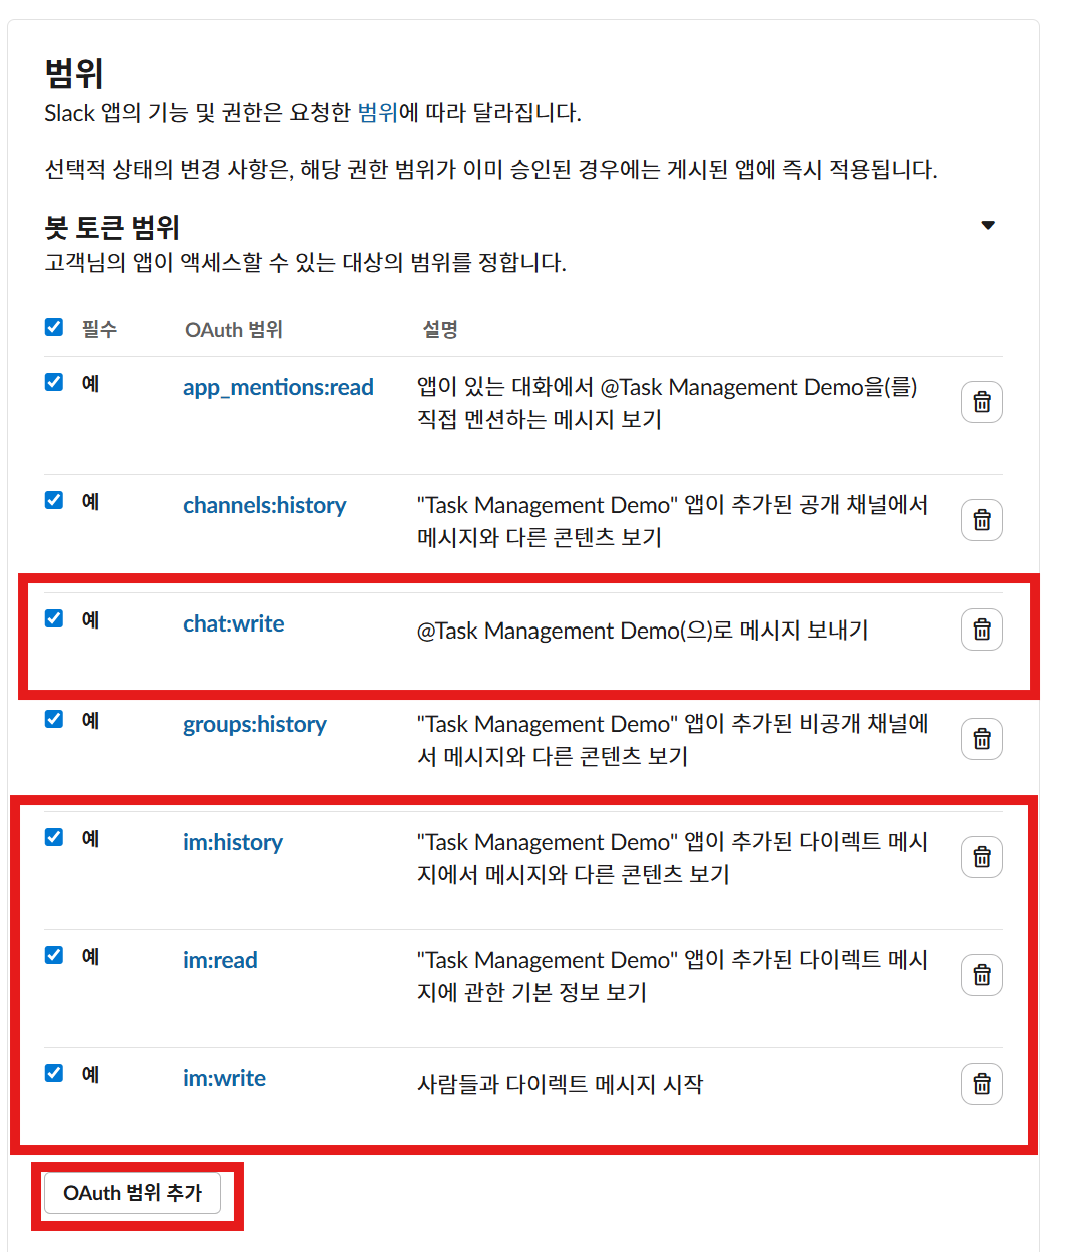
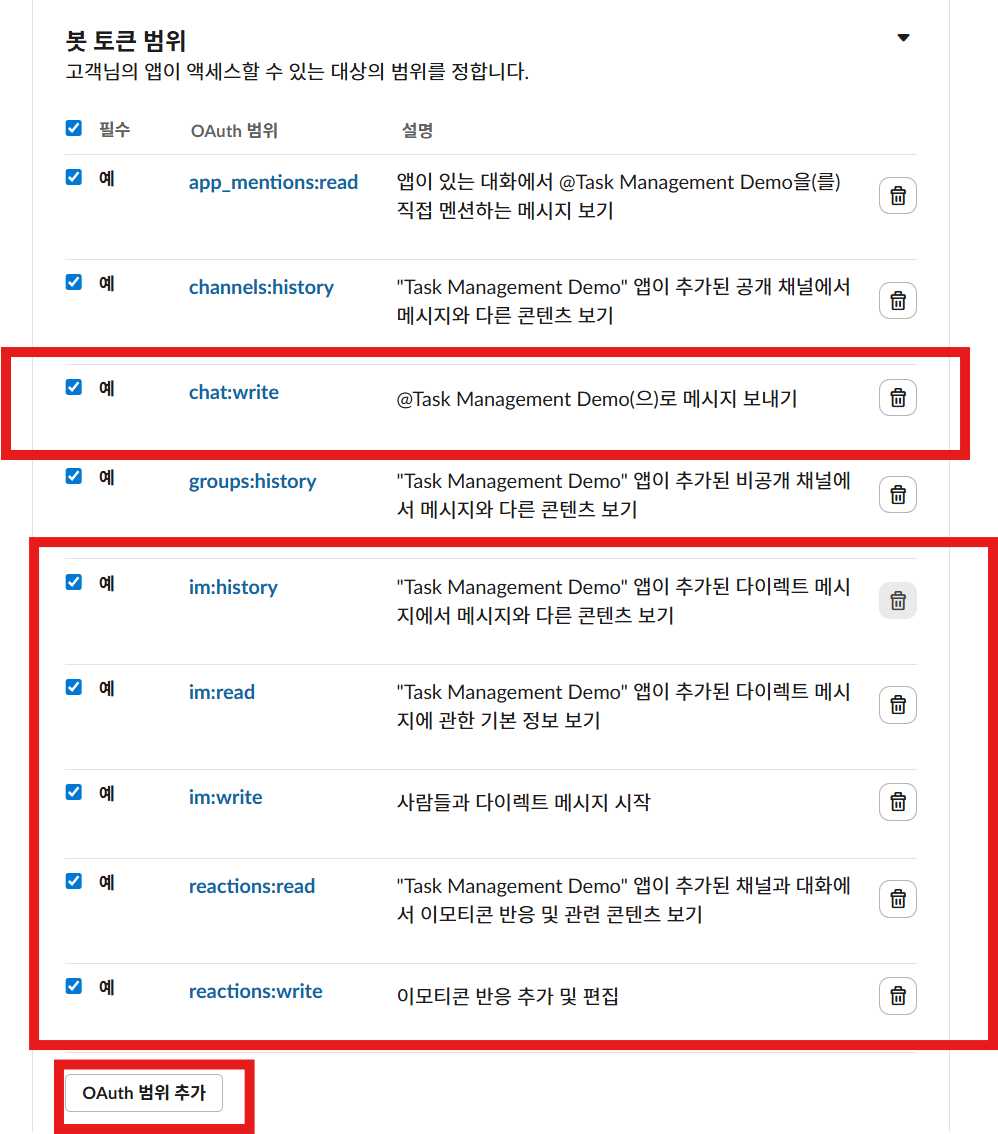
Add read/done emoji reactions on Slack messages and require reactions:write
Constraint: Operators wanted to see at a glance whether the bot read and finished a Slack message, but neither the reaction behavior nor the reactions:write scope existed in the repo.
Confidence: high
Scope-risk: low
Directive: slack-socket-loop adds eyes on receipt and white_check_mark on completion (best-effort); reactions:write is now a required bot scope, reflected across setup docs, the HTML guide, and the OAuth screenshot.
Tested: python -X utf8 -m pytest -q (244 passed); new test_socket_handle_marks_eyes_then_check_reactions.
Not-tested: live reactions.add round-trip (corporate network intermittently blocks the socket-mode WSS connect).

Changed region(s): [[0.0, 0.0309, 1.0, 1.0], [0.1553, 0.7407, 0.3106, 0.8025], [0.8697, 0.1543, 0.9319, 0.1852]]

diff --git a/docs/slack-app-setup-guide.html b/docs/slack-app-setup-guide.html
@@ -470,9 +470,10 @@
           <tr><td><code>chat:write</code></td><td>DM·확인·브리핑 메시지를 보냅니다.</td></tr>
           <tr><td><code>im:history</code></td><td>app DM의 <code>message.im</code> 이벤트와 DM history를 읽습니다.</td></tr>
           <tr><td><code>im:write</code></td><td>사용자와 app 사이 DM channel을 엽니다.</td></tr>
+          <tr><td><code>reactions:write</code></td><td>받은 메시지에 읽음(👀)·완료(✅) 리액션을 답니다.</td></tr>
         </tbody>
       </table>
-      <div class="callout callout-tip"><div class="callout-title">✅ clean repo 기준</div>이 3개는 코드의 <code class="inline-code">SLACK_PERSONAL_DM_BOT_SCOPES</code>로 고정돼 있고, <code class="inline-code">slack-doctor</code>가 <code class="inline-code">required_bot_scopes</code>로 자동 검증합니다. DM 데모는 더도 덜도 없이 이 3개면 충분합니다.</div>
+      <div class="callout callout-tip"><div class="callout-title">✅ clean repo 기준</div>이 4개는 코드의 <code class="inline-code">SLACK_PERSONAL_DM_BOT_SCOPES</code>로 고정돼 있고, <code class="inline-code">slack-doctor</code>가 <code class="inline-code">required_bot_scopes</code>로 자동 검증합니다. (<code class="inline-code">reactions:write</code>는 받은 메시지에 읽음·완료 리액션을 달기 위해 필요합니다.)</div>
       <div class="callout callout-warn"><div class="callout-title">⚠ User Token Scopes는 비워두기</div>같은 페이지의 <strong>User Token Scopes</strong> 섹션은 <strong>추가하지 않습니다</strong>. 이 어댑터는 bot token(<code class="inline-code">xoxb-</code>)만 사용하며, user token(<code class="inline-code">xoxp-</code>)을 넣으면 <code class="inline-code">slack-doctor</code>가 <em>"must be a bot token"</em>으로 거부합니다. <code class="inline-code">SLACK_USER_ID</code>는 토큰이 아니라 DM 상대(사람)를 식별하는 ID입니다.</div>
       <img class="screenshot" src="screenshots/slack-app-settings/03-oauth-required-scopes.png" alt="OAuth 필수 Scope 화면" onerror="this.style.display='none'; this.nextElementSibling.style.display='flex';">
       <div class="screenshot-placeholder" style="display:none;">
@@ -640,7 +641,7 @@ TASK_MANAGEMENT_ALLOWED_INSTANCE_ID=clean-demo</pre>
       <li>App-Level Token이 있고 <code class="inline-code">connections:write</code> scope를 가진다.</li>
       <li><code class="inline-code">SLACK_APP_TOKEN</code>이 <code class="inline-code">xapp-</code>로 시작한다.</li>
       <li>Socket Mode가 enabled 상태다.</li>
-      <li>Bot Token Scopes에 <code class="inline-code">chat:write</code>, <code class="inline-code">im:history</code>, <code class="inline-code">im:write</code>가 있다.</li>
+      <li>Bot Token Scopes에 <code class="inline-code">chat:write</code>, <code class="inline-code">im:history</code>, <code class="inline-code">im:write</code>, <code class="inline-code">reactions:write</code>가 있다.</li>
       <li>Event Subscriptions에 <code class="inline-code">message.im</code>이 있다. (Home tab이면 <code class="inline-code">app_home_opened</code>도)</li>
       <li>App Home에서 Messages tab이 켜져 있다.</li>
       <li>app을 install/reinstall 했다.</li>

diff --git a/task_management/slack_adapter.py b/task_management/slack_adapter.py
@@ -17,7 +17,7 @@ class SlackAdapterError(RuntimeError):
     """Raised for local Slack adapter configuration/API failures."""
 
 
-SLACK_PERSONAL_DM_BOT_SCOPES = ("chat:write", "im:history", "im:write")
+SLACK_PERSONAL_DM_BOT_SCOPES = ("chat:write", "im:history", "im:write", "reactions:write")
 
 
 @dataclass(frozen=True)
@@ -84,7 +84,7 @@ def diagnose_slack_live_config(config: SlackDmConfig) -> SlackLiveConfigCheck:
     warnings: list[str] = []
     setup_steps = [
         "Create/install a Slack app with a bot user.",
-        "Grant bot scopes: chat:write, im:history, im:write.",
+        "Grant bot scopes: chat:write, im:history, im:write, reactions:write.",
         "Set SLACK_BOT_TOKEN to the installed xoxb- bot token.",
         "Set SLACK_DM_CHANNEL_ID to a D... personal DM id, or set SLACK_USER_ID so conversations.open can resolve one.",
         "Set SLACK_USER_ID and enable App Home if you want the Home tab to show the task page summary.",
@@ -163,6 +163,12 @@ class SlackWebClient(Protocol):
     def publish_home_view(self, user_id: str, view: Mapping[str, Any]) -> str:
         """Publish a Slack App Home view for one user and return the view id/hash."""
 
+    def add_reaction(self, channel_id: str, ts: str, name: str) -> None:
+        """Add an emoji reaction to a message by conversation id + ts."""
+
+    def remove_reaction(self, channel_id: str, ts: str, name: str) -> None:
+        """Remove an emoji reaction from a message by conversation id + ts."""
+
 
 class SlackHttpClient:
     """Tiny stdlib Slack Web API client kept behind the adapter boundary."""
@@ -208,6 +214,24 @@ class SlackHttpClient:
             return str(published.get("id") or published.get("hash") or "")
         return ""
 
+    def add_reaction(self, channel_id: str, ts: str, name: str) -> None:
+        payload = self._post_json_unchecked(
+            "https://slack.com/api/reactions.add",
+            {"channel": channel_id, "timestamp": ts, "name": name},
+        )
+        if payload.get("ok") or payload.get("error") == "already_reacted":
+            return
+        raise SlackAdapterError(str(payload.get("error") or payload))
+
+    def remove_reaction(self, channel_id: str, ts: str, name: str) -> None:
+        payload = self._post_json_unchecked(
+            "https://slack.com/api/reactions.remove",
+            {"channel": channel_id, "timestamp": ts, "name": name},
+        )
+        if payload.get("ok") or payload.get("error") in {"no_reaction", "message_not_found"}:
+            return
+        raise SlackAdapterError(str(payload.get("error") or payload))
+
     def _get_json(self, url: str) -> dict[str, Any]:
         req = urlrequest.Request(url, headers={"Authorization": f"Bearer {self.token}"})
         with urlrequest.urlopen(req, timeout=20) as response:  # nosec - explicit live CLI path only
@@ -243,6 +267,8 @@ class FakeSlackWebClient:
     sent: list[tuple[str, str, str]] = field(default_factory=list)
     deleted: list[tuple[str, str]] = field(default_factory=list)
     home_views: list[tuple[str, Mapping[str, Any], str]] = field(default_factory=list)
+    reactions_added: list[tuple[str, str, str]] = field(default_factory=list)
+    reactions_removed: list[tuple[str, str, str]] = field(default_factory=list)
 
     def open_dm(self, user_id: str) -> str:
         return self.channel_id
@@ -265,6 +291,12 @@ class FakeSlackWebClient:
         view_id = f"VHOME{len(self.home_views) + 1:06d}"
         self.home_views.append((user_id, view, view_id))
         return view_id
+
+    def add_reaction(self, channel_id: str, ts: str, name: str) -> None:
+        self.reactions_added.append((channel_id, ts, name))
+
+    def remove_reaction(self, channel_id: str, ts: str, name: str) -> None:
+        self.reactions_removed.append((channel_id, ts, name))
 
 
 class SlackDmAdapter:
@@ -327,6 +359,12 @@ class SlackDmAdapter:
                 f"Slack App Home publish is restricted to configured user {self.config.user_id!r}; got {user_id!r}."
             )
         return self.client.publish_home_view(user_id, view)
+
+    def add_reaction(self, channel_id: str, ts: str, name: str) -> None:
+        self.client.add_reaction(channel_id, ts, name)
+
+    def remove_reaction(self, channel_id: str, ts: str, name: str) -> None:
+        self.client.remove_reaction(channel_id, ts, name)
 
 
 def slack_message_to_incoming(

diff --git a/task_management/slack_socket.py b/task_management/slack_socket.py
@@ -81,7 +81,7 @@ def diagnose_slack_socket_config(config: SlackSocketConfig) -> SlackSocketConfig
         "Generate an app-level token with connections:write and set SLACK_APP_TOKEN.",
         "Enable Event Subscriptions and subscribe the bot to message.im and app_home_opened.",
         "Optional allowlisted notification triage: subscribe to app_mention or message.channels/message.groups/message.im as needed, invite the bot to watched channels, and set TASK_MANAGEMENT_SLACK_WATCH_CHANNEL_IDS.",
-        "Keep the personal DM bot scopes available: chat:write, im:history, im:write.",
+        "Keep the personal DM bot scopes available: chat:write, im:history, im:write, reactions:write.",
         "Enable App Home > Home Tab if the Slack Home tab should show task summaries.",
         "Run slack-socket-loop only for the configured personal D... DM channel.",
     ]
@@ -519,9 +519,14 @@ def handle_slack_socket_envelope(
         )
 
     store.append_event("slack.message.polled", {"message_id": message.message_id}, occurred_at=message.received_at)
+    ts = message.message_id.rsplit("/", 1)[-1]
+    if send:
+        try:  # best-effort read receipt; never block processing on a reaction failure
+            adapter.add_reaction(message.chat_id, ts, "eyes")
+        except Exception:
+            pass
     result = orchestrator.handle_message(message)
     outbound = result.outbound_messages
-    ts = message.message_id.rsplit("/", 1)[-1]
     if message.chat_id == expected_channel_id:
         latest_ts = store.get_integration_state(_last_ts_key(adapter.config.actor_id)) or adapter.oldest
         if not latest_ts or float(ts) > float(latest_ts):
@@ -531,6 +536,12 @@ def handle_slack_socket_envelope(
     if send and outbound:
         queue_slack_outbound(store, adapter, tuple(outbound), queued_at=handled_at)
         drain_slack_outbound_queue(store, adapter, sent_at=handled_at)
+    if send:
+        try:  # mark done: eyes -> white_check_mark, best-effort
+            adapter.remove_reaction(message.chat_id, ts, "eyes")
+            adapter.add_reaction(message.chat_id, ts, "white_check_mark")
+        except Exception:
+            pass
 
     dashboard_output.parent.mkdir(parents=True, exist_ok=True)
     dashboard_model = build_web_task_page_model(store, today=handled_at.date())

diff --git a/tests/test_slack_socket.py b/tests/test_slack_socket.py
@@ -15,6 +15,7 @@ from task_management.slack_socket import (
     SlackSocketConfig,
     diagnose_slack_socket_config,
     enqueue_slack_socket_envelope,
+    handle_slack_socket_envelope,
     process_slack_socket_inbound_queue,
     run_slack_socket_loop,
     slack_socket_envelope_to_incoming,
@@ -141,6 +142,32 @@ def test_socket_config_requires_app_level_token_without_leaking_value() -> None:
     assert ready.required_app_scopes == ("connections:write",)
     assert ready.watched_channel_ids == ()
     assert ready.watch_requires_mention is True
+
+
+def test_socket_handle_marks_eyes_then_check_reactions(tmp_path: Path) -> None:
+    store = _store(tmp_path)
+    client = FakeSlackWebClient(channel_id="DTEST")
+    adapter = SlackDmAdapter(
+        SlackDmConfig(actor_id="me", dm_channel_id="DTEST", bot_token="xoxb-test"), client
+    )
+    orchestrator = TeamTaskOrchestrator(store)
+
+    handle_slack_socket_envelope(
+        store=store,
+        orchestrator=orchestrator,
+        adapter=adapter,
+        envelope=_message_im_envelope(),
+        dashboard_output=tmp_path / "dashboard.html",
+        send=True,
+        handled_at=datetime(2026, 5, 5, 10, 0, 0),
+    )
+
+    added = [name for _c, _ts, name in client.reactions_added]
+    removed = [name for _c, _ts, name in client.reactions_removed]
+    assert "eyes" in added
+    assert "white_check_mark" in added
+    assert "eyes" in removed
+    assert ("DTEST", "1779167000.000001", "white_check_mark") in client.reactions_added
 
 
 def test_socket_message_im_envelope_converts_to_incoming_message() -> None:

diff --git a/tests/test_commands_export_cli.py b/tests/test_commands_export_cli.py
@@ -392,7 +392,7 @@ def test_cli_slack_doctor_reports_ready_env_without_token_leak(tmp_path: Path, m
     assert result["can_poll"] is True
     assert result["can_send"] is True
     assert result["token_kind"] == "bot"
-    assert result["required_bot_scopes"] == ["chat:write", "im:history", "im:write"]
+    assert result["required_bot_scopes"] == ["chat:write", "im:history", "im:write", "reactions:write"]
     assert result["live_open_dm"] == {"attempted": False}
     assert result["safety"]["slack_scope"] == "personal_dm_only"
     assert "xoxb-test" not in json.dumps(result)

diff --git a/tests/test_slack_routines.py b/tests/test_slack_routines.py
@@ -428,7 +428,7 @@ def test_slack_live_config_doctor_accepts_private_dm_bot_setup_without_leaking_t
     assert check.can_send is True
     assert check.token_kind == "bot"
     assert check.dm_resolution == "SLACK_DM_CHANNEL_ID"
-    assert set(check.required_bot_scopes) == {"chat:write", "im:history", "im:write"}
+    assert set(check.required_bot_scopes) == {"chat:write", "im:history", "im:write", "reactions:write"}
     assert "xoxb-test" not in repr(check)
 
 

diff --git a/ops/slack_app_settings_guide.md b/ops/slack_app_settings_guide.md
@@ -143,6 +143,7 @@ DM 중심 demo path에 필요한 bot scope:
 | `chat:write` | Slack DM/confirmation/briefing 메시지를 보냅니다. |
 | `im:history` | app DM의 `message.im` 이벤트와 DM history를 읽습니다. |
 | `im:write` | 사용자와 app 사이의 DM channel을 열 수 있습니다. |
+| `reactions:write` | 받은 메시지에 읽음(👀)·완료(✅) 리액션을 답니다. |
 
 > Screenshot placeholder: `docs/screenshots/slack-app-settings/04-oauth-required-scopes.png`
 
@@ -281,7 +282,7 @@ python -X utf8 -m task_management.cli --agent "$TASK_MANAGEMENT_OPERATING_AGENT"
 - [ ] App-Level Token이 있고 `connections:write` scope를 가진다.
 - [ ] `SLACK_APP_TOKEN`이 `xapp-`로 시작한다.
 - [ ] Socket Mode가 enabled 상태다.
-- [ ] Bot Token Scopes에 `chat:write`, `im:history`, `im:write`가 있다.
+- [ ] Bot Token Scopes에 `chat:write`, `im:history`, `im:write`, `reactions:write`가 있다.
 - [ ] Event Subscriptions에 `message.im`이 있다.
 - [ ] Home tab을 쓸 경우 `app_home_opened`가 있다.
 - [ ] App Home에서 Messages tab이 켜져 있다.

diff --git a/ops/fresh_demo_install.md b/ops/fresh_demo_install.md
@@ -156,6 +156,7 @@ In the target Slack workspace:
    - `chat:write`
    - `im:history`
    - `im:write`
+   - `reactions:write`
 3. Enable App Home / direct messages if the workspace UI requires it.
 4. Install or reinstall the app to the workspace.
 5. Copy the bot token (`xoxb-...`) into local environment only.

diff --git a/ops/slack_bot_connection_guide.md b/ops/slack_bot_connection_guide.md
@@ -105,6 +105,7 @@ persistence, approvals, Slack sends, and task-core preview validation.
    - `chat:write`
    - `im:history`
    - `im:write`
+   - `reactions:write`
 4. Install or reinstall the app to the workspace after changing scopes.
 5. Copy the bot token (`xoxb-...`) to your local environment only.
 

diff --git a/README.md b/README.md
@@ -84,6 +84,7 @@ Required bot scopes for DM mode:
 - `chat:write`
 - `im:history`
 - `im:write`
+- `reactions:write`
 
 Socket Mode additionally needs an app-level token (`xapp-...`) and subscribed events such as `message.im`.
 

diff --git a/ops/slack_app_setup.md b/ops/slack_app_setup.md
@@ -31,6 +31,7 @@ placeholders, see [`slack_app_settings_guide.md`](slack_app_settings_guide.md).
 - `chat:write`
 - `im:history`
 - `im:write`
+- `reactions:write`
 
 ## Socket Mode
 
